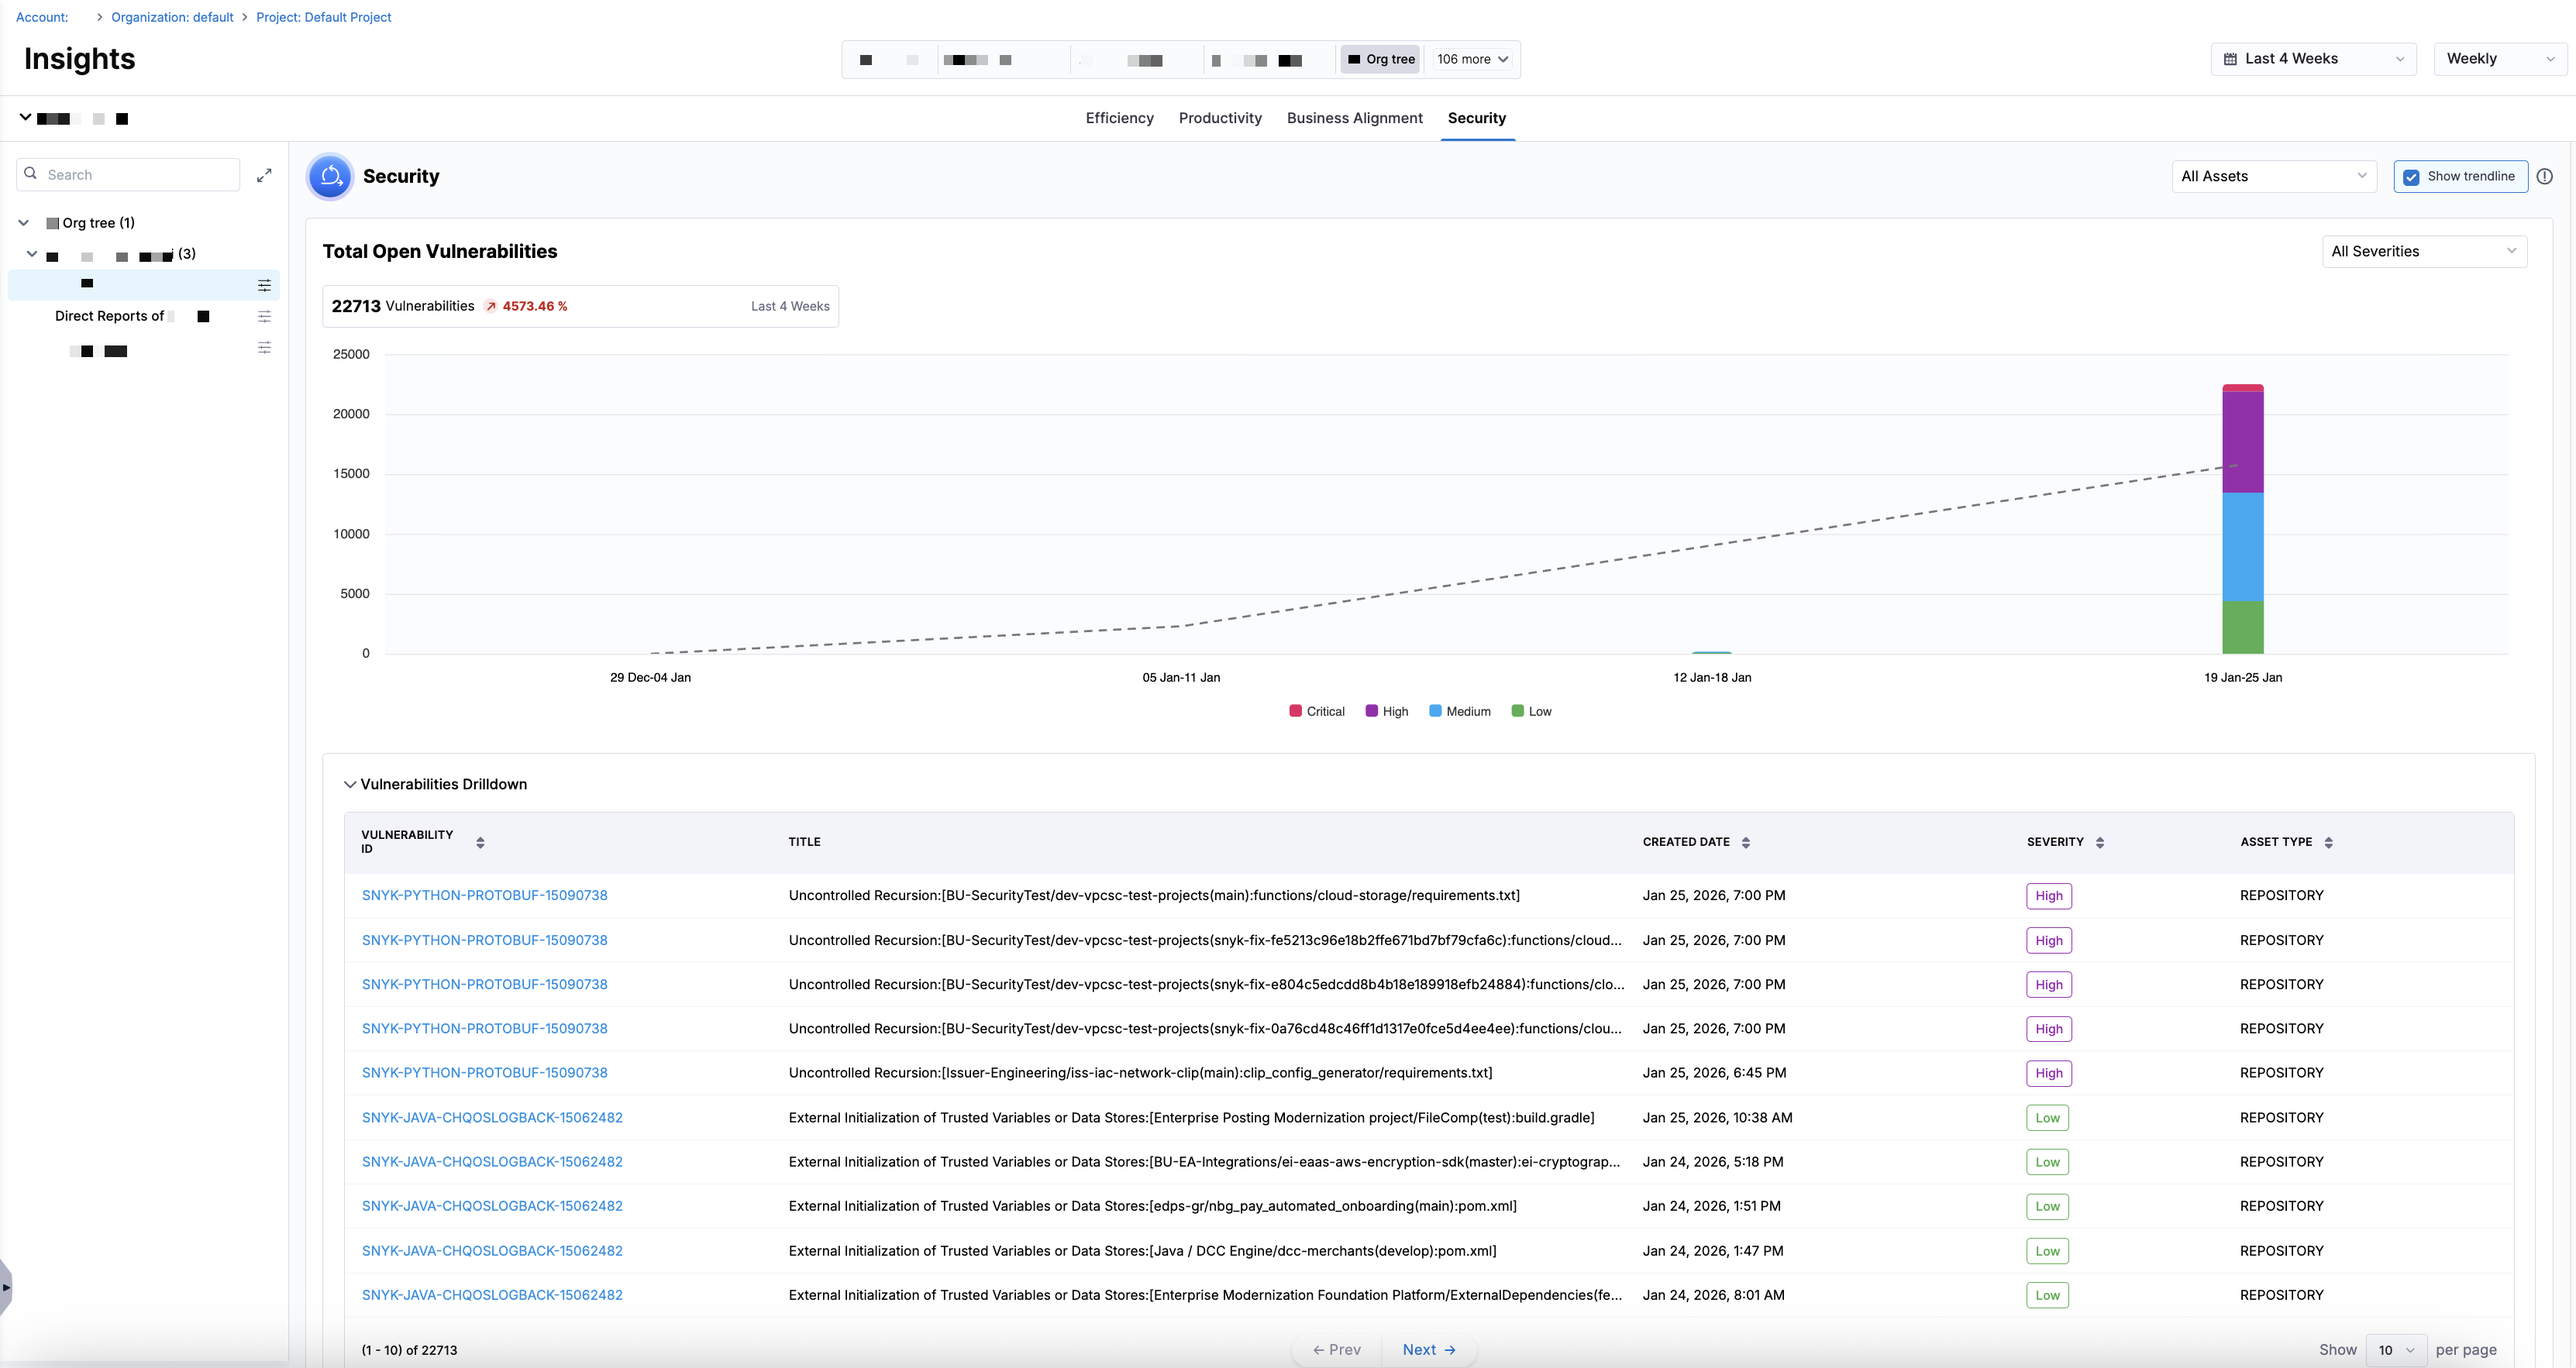
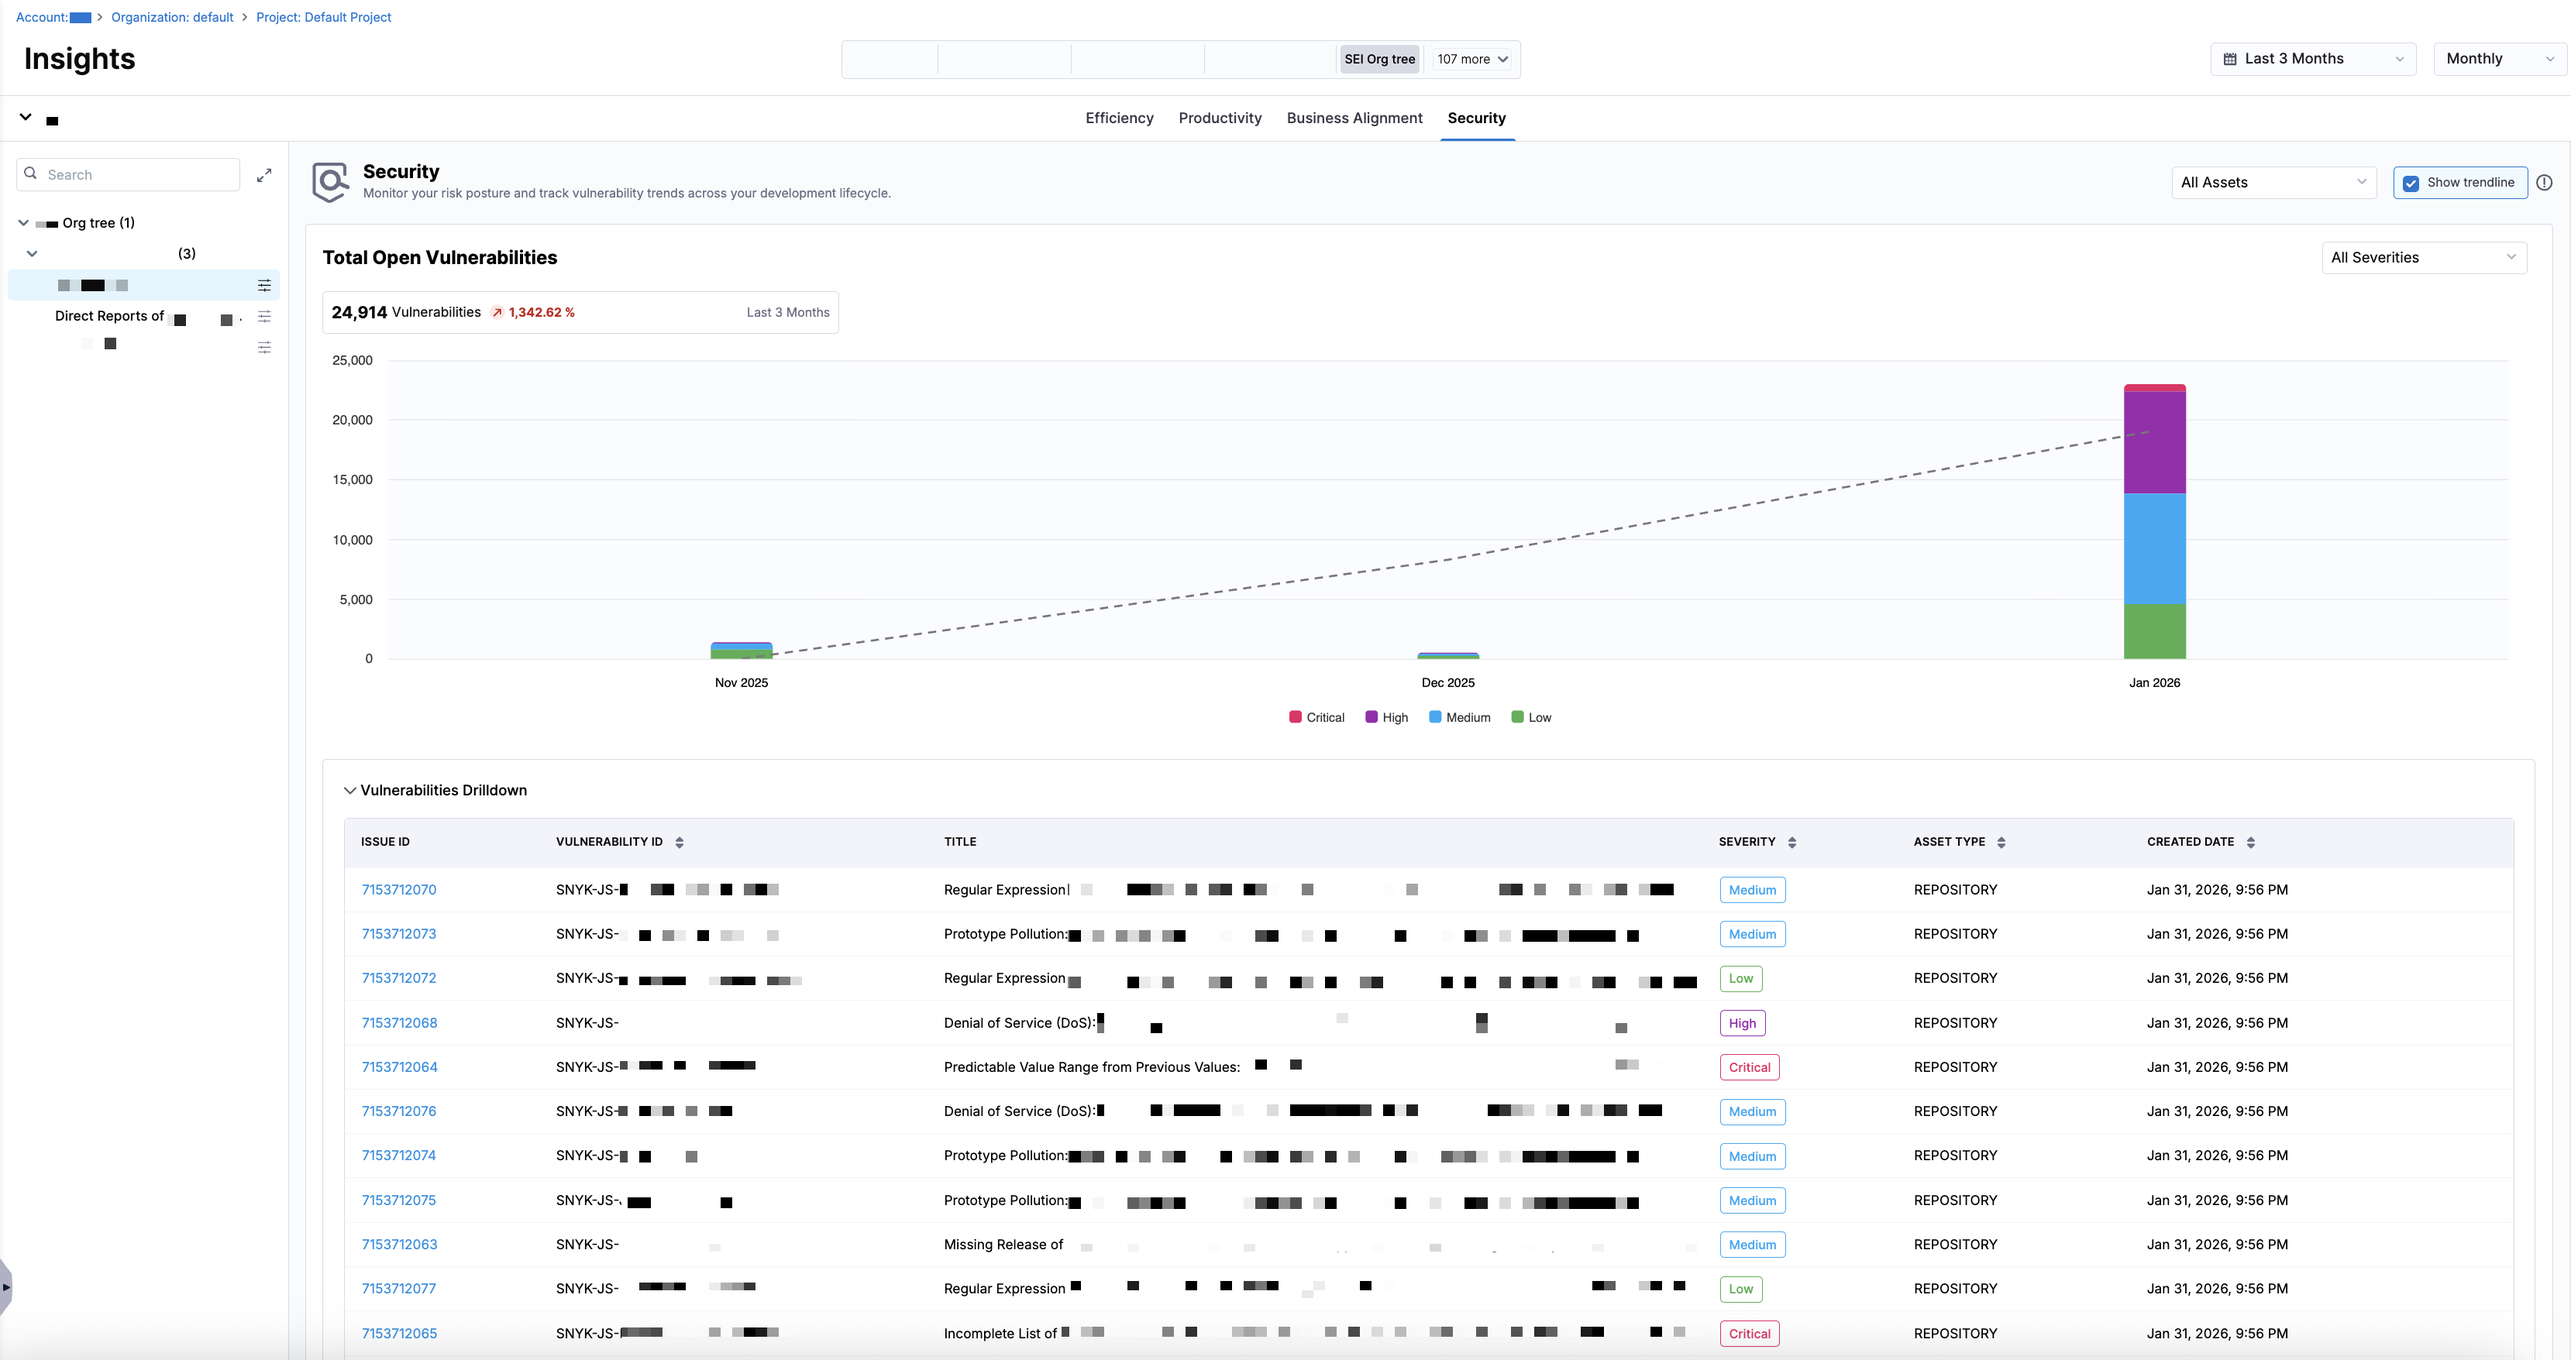
SEI-15825 Update Security Insights Documentation and Release Note (#100996)
* 587bc3 SEI-15825

diff --git a/sidebars.ts b/sidebars.ts
@@ -4304,6 +4304,12 @@ const sidebars: SidebarsConfig = {
             id: 'software-engineering-insights/harness-sei/analytics-and-reporting/business-alignment',
             label: 'Business Alignment Insights',
           },
+          { 
+            type: 'doc', 
+            id: 'software-engineering-insights/harness-sei/analytics-and-reporting/security',
+            label: 'Security Insights',
+            className: 'sidebar-item-beta',
+          },
           {
             type: 'doc',
             id: 'software-engineering-insights/harness-sei/analytics-and-reporting/export',

diff --git a/docs/software-engineering-insights/harness-sei/analytics-and-reporting/security.md b/docs/software-engineering-insights/harness-sei/analytics-and-reporting/security.md
@@ -13,9 +13,9 @@ Security Insights in SEI 2.0 focuses on understanding vulnerability risk across 
 
 This experience is designed to provide a clear, actionable view of security health, whether you're monitoring organization-wide trends or drilling into specific teams and assets. By combining time-based analysis with asset-level filtering, SEI 2.0 helps you identify where risk is accumulating, how quickly vulnerabilities are resolved, and where remediation efforts may need to be prioritized.
 
-You can use the Security Insights dashboard on the **Security** tab of the **Insights** page to analyze vulnerability risk across your application and infrastructure assets. Select a relative time range (such as `Last 30 Days`) or define a custom date range, and switch between **Weekly**, **Monthly**, or **Quarterly** views.
+You can use the Security Insights dashboard on the **Security** tab of the **Insights** page to analyze vulnerability risk across your application and infrastructure assets. Select a relative time range (such as `Last 3 Months`) and switch between **Weekly**, **Monthly**, or **Quarterly** views.
 
-![](../static/security-3.png)
+![](../static/security-1.png)
 
 To scope the Security Insights widgets by an asset type, click the `All Assets` dropdown menu and select **All Assets**, **Repositories**, **Container Images**, **IAC Files**, or **CLI**. All metrics and visualizations update automatically based on the selected time range, aggregation, and asset scope. Click the **Show trendline** checkbox to overlay trendlines across all Security visualizations. Trendlines help you assess whether security metrics are improving, regressing, or remaining stable over time. 
 
@@ -26,6 +26,8 @@ Trendlines use the Ordinary Least Squares (OLS) regression method to identify pa
 ## Security Insights widgets
 
 The Security Insights dashboard on the **Insights** page provides a set of core metrics that highlight vulnerability volume, aging, and remediation trends. Each widget includes a severity filter that allows you to view data by **All Severities**, **Critical**, **High**, **Medium**, or **Low**. Selecting a severity updates the metric value and the bar charts. 
+
+![](../static/security-2.png)
 
 ### Total Open Vulnerabilities
 
@@ -47,17 +49,17 @@ The **Vulnerabilities Drilldown** section displays a list of all currently unres
 
 | Column Name | Description |
 |------|-------------|
-| **Vulnerability ID** | Unique identifier for the vulnerability (for example, a CVE). |
 | **Issue ID** | Identifier assigned by the originating security tool for the specific finding or instance of the vulnerability. |
+| **Vulnerability ID** | Unique identifier for the vulnerability (for example, a CVE). |
 | **Title** | A short description of the vulnerability. |
-| **Created Date** | When the vulnerability was first detected. |
 | **Severity** | Severity level of the vulnerability (`Critical`, `High`, `Medium`, or `Low`). |
-| **Asset Type** | The asset category where the vulnerability exists (Repository, Container Image, or Cloud Resource). |
+| **Asset Type** | The asset category where the vulnerability exists (`Repository`, `Container Image`, `IaC File`, or `CLI`). |
+| **Created Date** | When the vulnerability was first detected. |
 
-Each vulnerability in the list links back to the originating security tool (for example, Snyk). Click a row to open the full finding and remediation details. This drilldown is scoped to **open vulnerabilities only** and reflects the selected time range, asset scope, and severity.
+Each issue in the vulnerabilities list links back to the originating security tool (for example, Snyk). Click the **Issue ID** for a vulnerability to open its full findings and remediation details. This drilldown is scoped to open vulnerabilities only and reflects the selected time range, asset scope, and severity.
 
-At higher levels of the Org Tree (for example, organization or director-level nodes), the dashboard displays a summarized view of the security metrics. When you navigate to a **leaf team** in the Org Tree, you can click **View Drilldown** in each widget to display the vulnerability data associated with that team. 
+At higher levels of the Org Tree (for example, organization or director-level nodes), the dashboard displays a summarized view of the security metrics. When you navigate to a leaf node (a team) in the Org Tree, the **Vulnerabilities Drilldown** section updates to display the vulnerability data associated with that team. 
 
-![](../static/security-4.png)
+![](../static/security-3.png)
 
 These drilldowns allows engineering leaders to monitor security trends at scale while providing teams with clear, actionable visibility into the vulnerabilities they own. 
